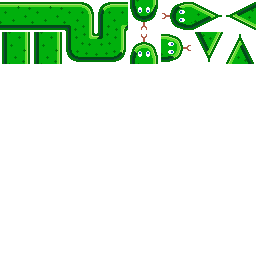
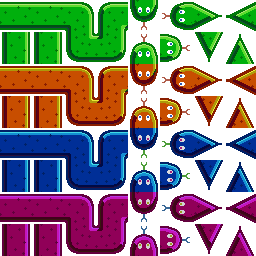
ordered the graphics and added new snake graphics

diff --git a/Snake/src/snake.py b/Snake/src/snake.py
@@ -7,18 +7,19 @@ pixel_width = gamedef.pixel_width
 
 class Snake(gamedef.GameEntity):
 
-    snakesquare = pygame.image.load(IMG_PATH + 'snakeSquare.png')
-    snakesquare2 = pygame.image.load(IMG_PATH + 'snakeSquare2.png')
-    head = [pygame.image.load(IMG_PATH + 'headU.png'),pygame.image.load(IMG_PATH + 'headR.png'),pygame.image.load(IMG_PATH + 'headD.png'),pygame.image.load(IMG_PATH + 'headL.png')]
-    head2 = [pygame.image.load(IMG_PATH + 'headU2.png'),pygame.image.load(IMG_PATH + 'headR2.png'),pygame.image.load(IMG_PATH + 'headD2.png'),pygame.image.load(IMG_PATH + 'headL2.png')]
-    tail = [pygame.image.load(IMG_PATH + 'tailU.png'),pygame.image.load(IMG_PATH + 'tailR.png'),pygame.image.load(IMG_PATH + 'tailD.png'),pygame.image.load(IMG_PATH + 'tailL.png')]
-    tail2 = [pygame.image.load(IMG_PATH + 'tailU2.png'),pygame.image.load(IMG_PATH + 'tailR2.png'),pygame.image.load(IMG_PATH + 'tailD2.png'),pygame.image.load(IMG_PATH + 'tailL2.png')]
-    corner = [pygame.image.load(IMG_PATH + 'cornerNE.png'),pygame.image.load(IMG_PATH + 'cornerSE.png'),pygame.image.load(IMG_PATH + 'cornerSW.png'),pygame.image.load(IMG_PATH + 'cornerNW.png')]
-    corner2 = [pygame.image.load(IMG_PATH + 'cornerNE2.png'),pygame.image.load(IMG_PATH + 'cornerSE2.png'),pygame.image.load(IMG_PATH + 'cornerSW2.png'),pygame.image.load(IMG_PATH + 'cornerNW2.png')]
+    tiles_snake1 = pygame.image.load(IMG_PATH + 'snake.png')
+
+    last_renderered_tile = -1
+
     pygame.mixer.init()
     effect = pygame.mixer.Sound(SOUND_PATH + 'eat.ogg')
 
     def __init__(self):
+        Snake.last_renderered_tile += 1
+        if (Snake.last_renderered_tile == 4):
+            Snake.last_renderered_tile = 0
+        self.current_sprite = Snake.last_renderered_tile
+
         self.alive = True
         self.length = 4
         self.direction = gamedef.Direction.EAST
@@ -28,14 +29,14 @@ class Snake(gamedef.GameEntity):
         self.z_index = 10
         self.has_eaten = False
 
+        # the current sprite set to select
+        self.current_sprite = 0
+
         # initializing position
         self.all_positions = [(4 * pixel_width, 8 * pixel_width), (5 * pixel_width, 8 * pixel_width), (6 * pixel_width, 8 * pixel_width), (7 * pixel_width, 8 * pixel_width)]
 
         # Setting keys
         self.keys = [pygame.K_UP, pygame.K_RIGHT, pygame.K_DOWN, pygame.K_LEFT]
-
-        #whatever this is, i figured it out it will fall like sparta
-        self.red = False
 
         # Calling super constructor
         super(Snake, self).__init__("snake")
@@ -85,78 +86,97 @@ class Snake(gamedef.GameEntity):
             self.time_until_move = self.time_between_move
       
 
-    def _draw(self, window):
-        head_dir = self.find_head_dir().value
-        tial_dir = self.find_tail_dir().value
+    def _draw(self, window):      
+        for i in range(len(self.all_positions)):
+            self.draw_tile(i, window)     
 
-        for i in range(1,len(self.all_positions) - 1): # geht k�rperteil ohne schwanz & kopf durch
-          if self.is_corner(i):
-            corner_dir = self.find_corner_dir(i).value
-            if self.red:
-                window.blit(Snake.corner2[corner_dir], self.all_positions[i])
-            else:
-                window.blit(Snake.corner[corner_dir], self.all_positions[i])
-          else:
-            if self.red:
-                window.blit(Snake.snakesquare2, self.all_positions[i])
-            else:
-                window.blit(Snake.snakesquare, self.all_positions[i])
-        if self.red:
-            window.blit(Snake.tail2[tial_dir], self.all_positions[0])
-            window.blit(Snake.head2[head_dir], (self.all_positions[len(self.all_positions) - 1][0] - 9, self.all_positions[len(self.all_positions) - 1][1] - 9))
+    #drawm the tile ad index idx to the window
+    def draw_tile(self, idx, window):
+
+        # the coordinates within the picture
+        x = 0
+        y = 0
+
+        # we are at the tail
+        if idx == 0:
+            if self.all_positions[1][0] > self.all_positions[idx][0]:
+                x = 7
+                y =  2 * self.current_sprite
+            elif self.all_positions[1][0] < self.all_positions[idx][0]:
+                x = 6
+                y = 2 * self.current_sprite
+            elif self.all_positions[1][1] > self.all_positions[idx][1]:
+                x = 7
+                y = 2 * self.current_sprite + 1
+            elif self.all_positions[1][1] < self.all_positions[idx][1]:
+                x = 6
+                y = 2 * self.current_sprite + 1
+        # we are at the head
+        elif idx == len(self.all_positions) - 1:
+            if self.all_positions[idx - 1][0] > self.all_positions[idx][0]:
+                x = 5
+                y = 2 * self.current_sprite
+            elif self.all_positions[idx - 1][0] < self.all_positions[idx][0]:
+                x = 5
+                y = 2 * self.current_sprite + 1
+            elif self.all_positions[idx - 1][1] > self.all_positions[idx][1]:
+                x = 4
+                y = 2 * self.current_sprite + 1
+            elif self.all_positions[idx - 1][1] < self.all_positions[idx][1]:
+                x = 4
+                y = 2 * self.current_sprite
         else:
-            window.blit(Snake.tail[tial_dir], self.all_positions[0])
-            window.blit(Snake.head[head_dir], (self.all_positions[len(self.all_positions) - 1][0] - 9, self.all_positions[len(self.all_positions) - 1][1] - 9))
+            # if we are in the middle
+            if self.all_positions[idx][0] > self.all_positions[idx - 1][0]:
+                if self.all_positions[idx + 1][0] > self.all_positions[idx][0]:
+                    x = 0
+                    y = 2 * self.current_sprite
+                elif self.all_positions[idx + 1][1] > self.all_positions[idx][1]:
+                    x = 2
+                    y = 2 * self.current_sprite
+                elif self.all_positions[idx + 1][1] < self.all_positions[idx][1]:
+                    x = 3
+                    y = 1 + 2 * self.current_sprite
+            elif self.all_positions[idx][0] < self.all_positions[idx - 1][0]:
+                if self.all_positions[idx + 1][0] < self.all_positions[idx][0]:
+                    x = 1
+                    y = 2 * self.current_sprite
+                elif self.all_positions[idx + 1][1] > self.all_positions[idx][1]:
+                    x = 3
+                    y = 2 * self.current_sprite
+                elif self.all_positions[idx + 1][1] < self.all_positions[idx][1]:
+                    x = 2
+                    y = 1 + 2 * self.current_sprite
+            else:
+                if self.all_positions[idx][1] > self.all_positions[idx - 1][1]:
+                    if self.all_positions[idx][0] > self.all_positions[idx+1][0]:
+                        x = 3
+                        y = 2 * self.current_sprite + 1
+                    elif self.all_positions[idx][0] < self.all_positions[idx+1][0]:
+                        x = 2
+                        y = 2 * self.current_sprite + 1
+                    else:
+                        x = 0
+                        y = 1 + 2 * self.current_sprite
+                else:
+                   if self.all_positions[idx][0] > self.all_positions[idx+1][0]:
+                        x = 2
+                        y = 2 * self.current_sprite
+                   elif self.all_positions[idx][0] < self.all_positions[idx+1][0]:
+                       x = 3
+                       y = 2 * self.current_sprite 
+                       
+                   else:
+                        x = 1
+                        y = 1 + 2 * self.current_sprite
 
+        window.blit(self.tiles_snake1, self.all_positions[idx], (x * pixel_width, y * pixel_width, pixel_width, pixel_width))
 
     def check_out_of_bounds(self):
         x = self.all_positions[-1][0]
         y = self.all_positions[-1][1]
         if x < 0 or y < 0 or x > 900 or y > 600:
             self.alive = False
-
-
-    def find_head_dir(self):
-        last = len(self.all_positions) - 1
-        if self.all_positions[last][0] < self.all_positions[last - 1][0]:
-            return gamedef.Direction.EAST
-        elif self.all_positions[last][0] > self.all_positions[last - 1][0]:
-            return gamedef.Direction.WEST
-        elif self.all_positions[last][1] > self.all_positions[last - 1][1]:
-            return gamedef.Direction.NORTH
-        else:
-            return gamedef.Direction.SOUTH
-
-
-    def find_tail_dir(self):
-        if self.all_positions[0][0] < self.all_positions[1][0]:
-            return gamedef.Direction.EAST
-        elif self.all_positions[0][0] > self.all_positions[1][0]:
-            return gamedef.Direction.WEST
-        elif self.all_positions[0][1] > self.all_positions[1][1]:
-            return gamedef.Direction.NORTH
-        else:
-            return gamedef.Direction.SOUTH
-
-
-    def is_corner(self, i):
-        upper = self.all_positions[i][1] != self.all_positions[i + 1][1]
-        lower = self.all_positions[i][1] != self.all_positions[i - 1][1]
-        return lower != upper
-
-
-    def find_corner_dir(self, i):
-        upper = self.all_positions[i][1] > self.all_positions[i + 1][1] or self.all_positions[i][1] > self.all_positions[i - 1][1]
-        lower = self.all_positions[i][1] < self.all_positions[i - 1][1] or self.all_positions[i][1] < self.all_positions[i + 1][1]
-        right = self.all_positions[i][0] < self.all_positions[i + 1][0] or self.all_positions[i][0] < self.all_positions[i - 1][0]
-        if right and upper and not(lower):
-            return gamedef.DiagDir.SW
-        elif right and lower and not(upper):
-            return gamedef.DiagDir.NW
-        elif upper and not(lower) and not(right):
-            return gamedef.DiagDir.SE
-        else:
-            return gamedef.DiagDir.NE
 
     # Called when the snake should move
     def move(self):
@@ -178,10 +198,6 @@ class Snake(gamedef.GameEntity):
             self.all_positions.pop(0)
         else:
             self.has_eaten = False
-        
-    def set_food(self, food):
-        self.food = food
-
 
     def die(self):
         self.alive = False

diff --git a/Snake/src/Game.py b/Snake/src/Game.py
@@ -1,5 +1,6 @@
 import pygame
 import time
+import random
 
 import gamedef
 import classes
@@ -65,6 +66,8 @@ def start_game(snake_num, food_num):
     snakes.clear()
     for i in range(snake_num):
         snakes.append(snake.Snake())
+    for s in snakes:
+        s.current_sprite = random.randint(0,3)
     foods.clear()
     for i in range(food_num):
         foods.append(classes.Food(snakes))
